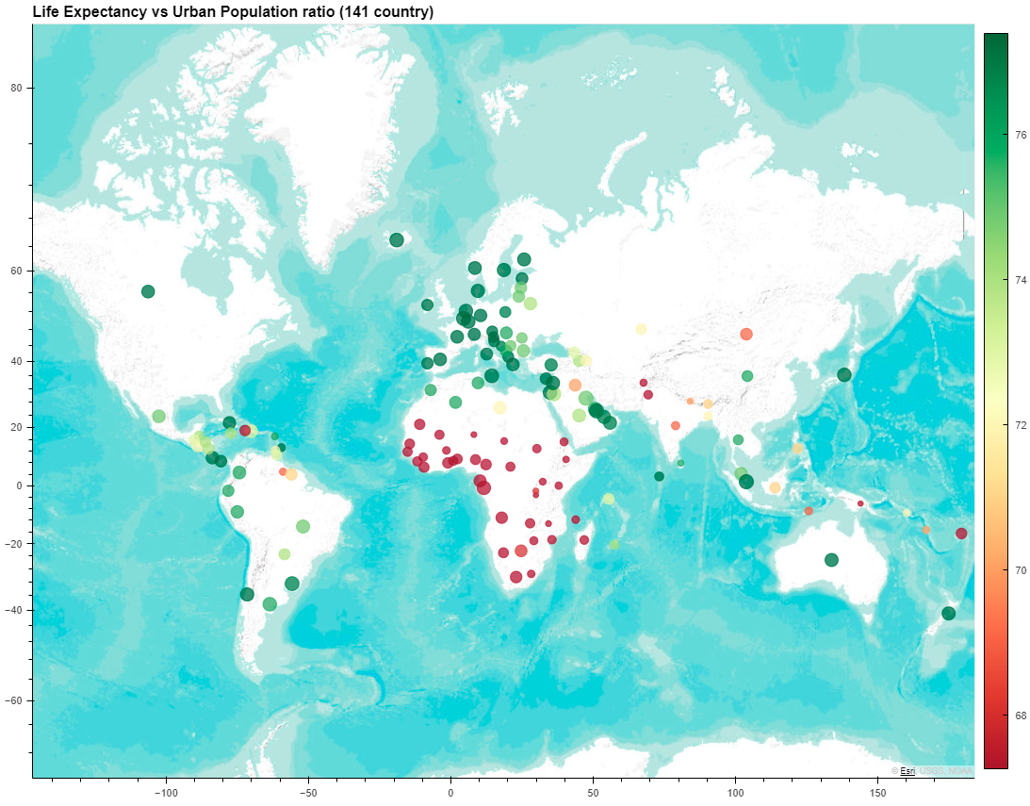
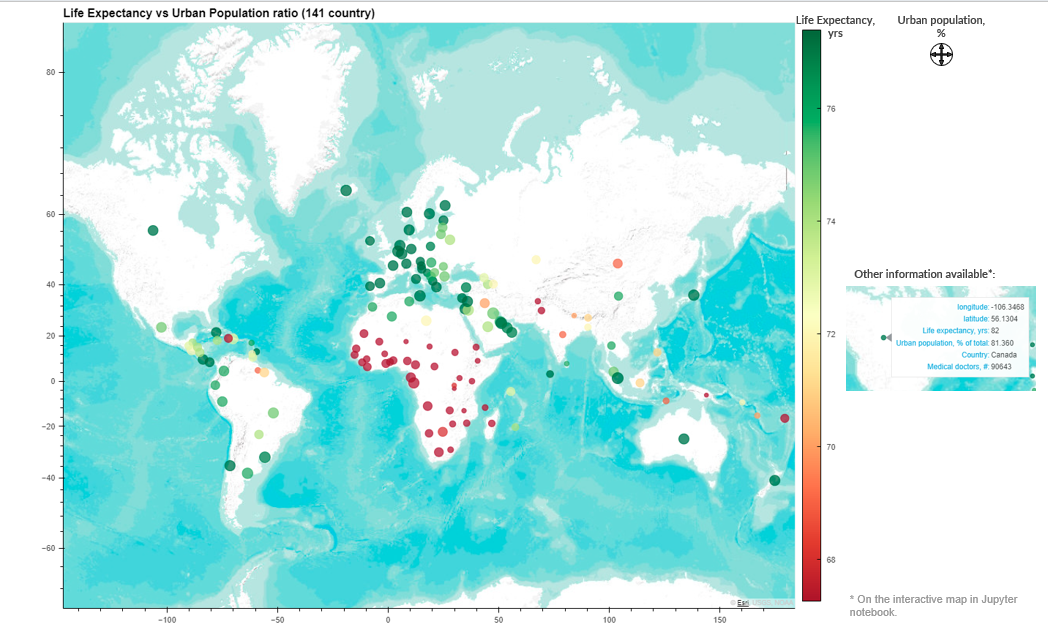
update project description in Readme

diff --git a/README.md b/README.md
@@ -1,2 +1,86 @@
-# Life_Expectancy
-This analysis delves into the relationship between urbanization and life expectancy across various countries. Using Python for data analysis and visualization, it aims to uncover insights into how urbanization influences life expectancy trends.
+# Urban vs. Rural Population Analysis: Impact on Life Expectancy
+
+## Description
+This project investigates the correlation between urbanization and life expectancy across diverse countries and forms part of a broader analysis of global health data aimed at pinpointing regions most in need of support from organizations like the World Health Organization (WHO). The goal of the project is to deepen the understanding of global health disparities and uncover insights for evidence-based decision-making in healthcare planning and resource allocation. Through thorough analysis, regions requiring aid are pinpointed, while countries with outstanding health outcomes are highlighted, serving as benchmarks for global health advancement.
+
+## Python Libraries Used
+- Pandas
+- Matplotlib
+- SciPy
+- NumPy
+- Hvplot
+
+## File Structure
+- 'life_expectancy.ipynb': Jupyter Notebook with python script that cleans the data, uncovers trends and visualizes the findings.
+
+### Data
+Data sets were obtained from Kaggle and World Health Organization (WHO).
+
+    - 'health_data.csv': CSV file that comprises demographic, health, economic, and social indicators for various countries, including life expectancy, unemployment rate, infant mortality, GDP, vaccination rates, urban and rural population percentages, and mortality rates from various causes. 
+    - 'population.csv': CSV file with population information by gender from 1960 to 2021.
+    - 'Medical_doctors.csv': CSV file with information about number of medical doctors by country by year. 
+    - 'world_latitude_longtitude.csv': CSV file with countries geographical information for map visualization.
+
+## Data processing steps
+Script allows to perform the following steps of the analysis:
+
+- Clean and prepare the data.
+- Generate summary statistics.
+- Identify outliers.
+- Measure correlation between analyzed variables (Life Expectancy and Urban Population %).
+- Create a scatter plot and a line plot to visualize data trends.
+- Identify countries that are not following the overall trend.
+- Perform statistical test to test the hypothesis. 
+- Plot Life Expectancy and Urban Population ratio on a map.
+
+## Data limitations
+- Years: 2015 to 2019.
+- Countries that did not have Life Expectancy and Immunization Rates for all analyzed years were excluded from the analysis:
+Curacao,
+Greenland,
+Sint Maarten (Dutch part).
+- Countries that did not have Male/Female ratio to calculate Life Expectancy for the entire population were assigned 50%:
+Czech Republic,
+Turkey.
+- Life Expectancy for the entire population was calculated as weighted average between Male Life Expectancy and Female Life Expectancy. 
+- 95 countries (63.33%) did not have complete ‘Year’ information the data was averaged out by years.
+- Data frame that contains information by country with averaged information across the analyzed years has 246 countries.
+
+## Analysis Results
+
+Throughout the anaylsis linear regression analysis, correlation analysis, independent sample t-test were used to check statistical significance:
+- LinregressResult(slope=0.20960452658895146, intercept=60.13577971371717, rvalue=0.6177675233644961, pvalue=2.7918422048609635e-27, stderr=0.017080576290189883, intercept_stderr=1.0555839781164265).
+- PearsonRResult(statistic=0.6177675233644959, pvalue=2.79184220486113e-27).
+- Ttest_indResult(statistic=-10.782843029791302, pvalue=8.933679816645654e-22)
+
+![Getting Started](Images/overview_slide.png)
+
+To visualize the results the following graph types were created:
+ - scatter plot to show relationship between Life Expectancy and Urban Population Ratio.
+
+ ![Getting Started](Images/countries_list.png)
+
+ - regression line.
+
+ - box plots.
+
+![Getting Started](Images/life_span_comparison.png)
+
+ - map visualization.
+
+![Getting Started](Images/map.png)
+
+
+## Conclusion
+
+- Correlation between Life Expectancy and size of Urban Population is moderate - 0.62.
+- Countries with lower % of the urban population may require more support in healthcare.
+- Develop infructructure in countries with lower urban population % may be an option to increase assessibility to healthcare and consequently increase Life Expectancy.
+
+
+## References
+https://www.kaggle.com/datasets/kiranshahi/life-expectancy-dataset?datasetId=1980580&sortBy=dateRun&tab=profile 
+https://data.worldbank.org/indicator/SP.POP.TOTL.FE.ZS
+https://www.kaggle.com/datasets/iamsouravbanerjee/world-population-dataset
+https://www.kaggle.com/datasets/paultimothymooney/latitude-and-longitude-for-every-country-and-state
+
